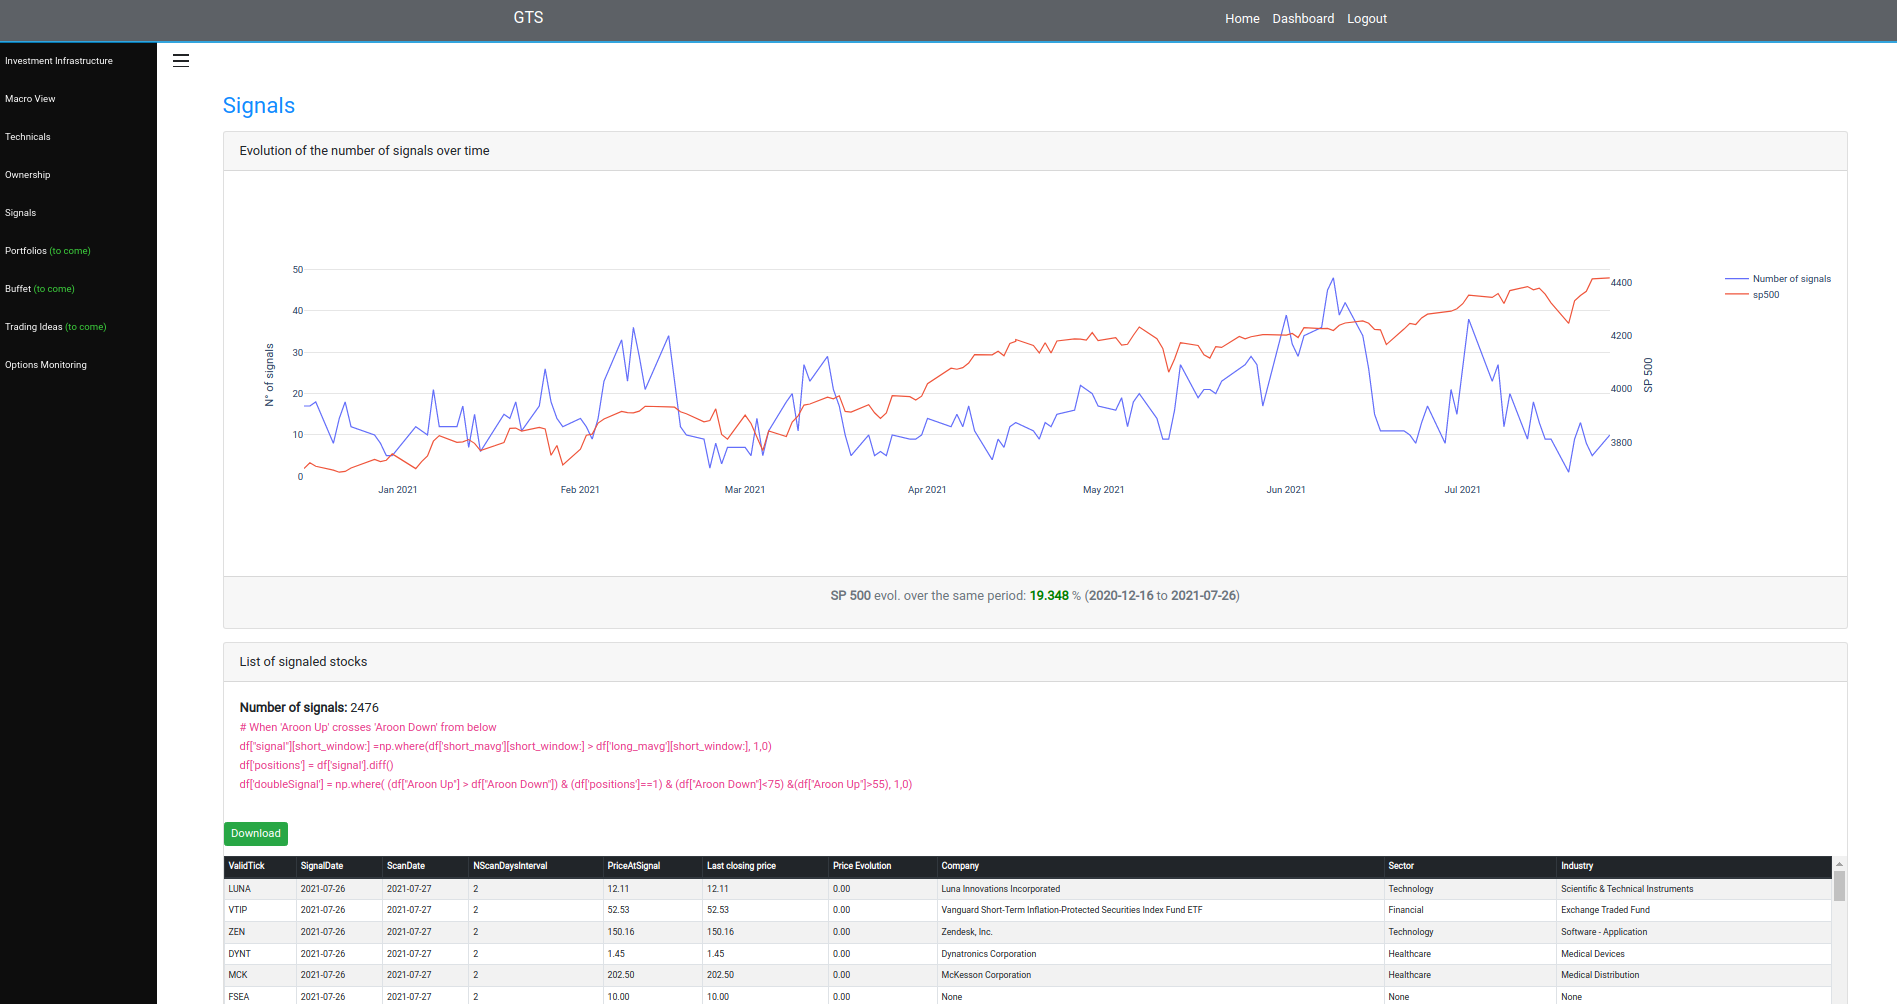
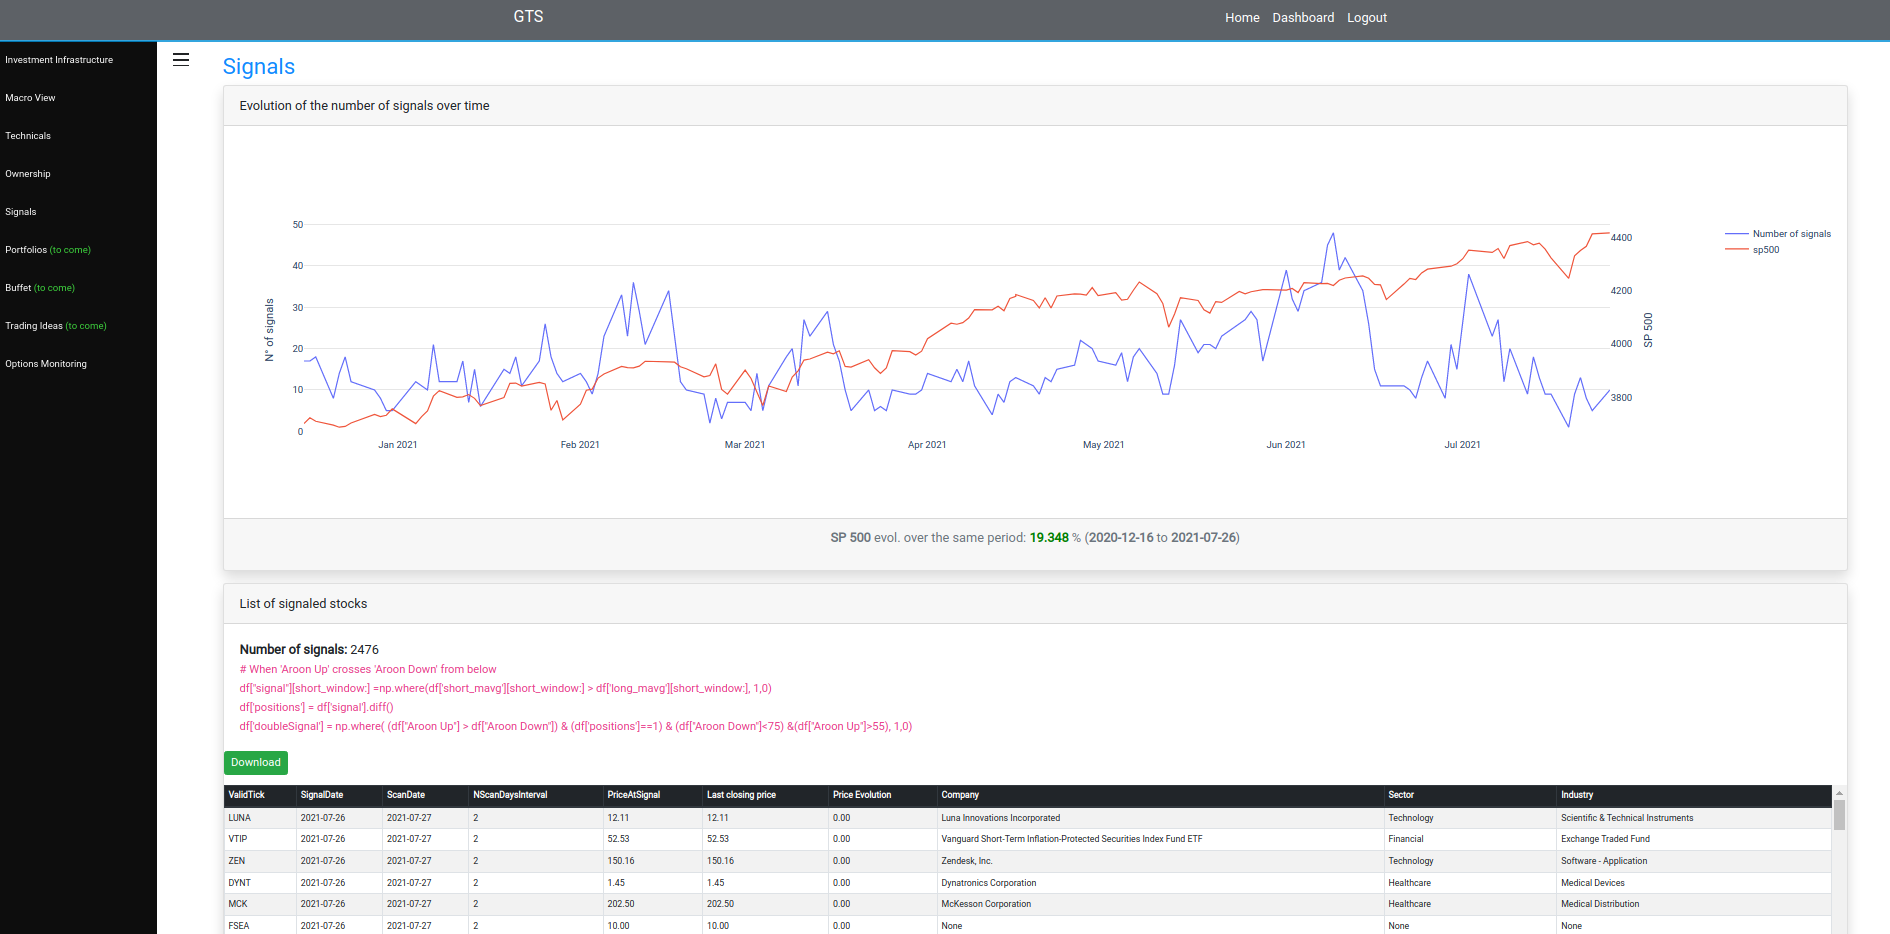
card padding

diff --git a/SV/templates/table.html b/SV/templates/table.html
@@ -13,12 +13,10 @@
 <body id="Table_page" style="margin: 20px">
 
 <h3>Signals</h3>
-<p>
-
-</p>
 
 
-<div class="card mb-3">
+<div class="card mb-3 shadow bg-white rounded">
+
     <div class="card-header">
       Evolution of the number of signals over time
     </div>
@@ -29,12 +27,11 @@
         Plotly.plot('line',graphs,{});
       </script> 
     </div>
-  </div>
+  </div>  
 
 
 
 
-</p>
 
 
   <div class="card-footer text-muted">
@@ -52,7 +49,7 @@
 
 </div> <!--CARD 1-->
 
-<div class="card mb-3">
+<div class="card mb-3 shadow bg-white rounded">
   <div class="card-header">
 List of signaled stocks  
 </div>
@@ -62,7 +59,6 @@ List of signaled stocks
   <div class="row">
 
       <div class="col-sm">
-          <p class="alignleft">
 
                   <b>Number of signals:</b> {{nSignals}}
                   </br>
@@ -77,7 +73,6 @@ List of signaled stocks
                       (df["Aroon Up"] > df["Aroon Down"]) & (df['positions']==1) & (df["Aroon Down"]<75) &(df["Aroon Up"]>55),
                       1,0)
                   </code>
-          </p>
       </div>
     </div><!--CARD BODY-->
 
@@ -117,12 +112,11 @@ List of signaled stocks
 
 </div> <!--CARD 2-->
 
-</br>
-</br>
 
 
-    <h3 id="signal_chart_section">Signals visualization</h3>
-    <hr>
+<h3 id="signal_chart_section">Signals visualization</h3>
+
+<div class="card mb-3 shadow bg-white rounded">
 
     You can enter one of the Symbols present in the table above to visualize the Signals.
     For now, only the stocks marked as signaled can be charted with the tool below.
@@ -140,6 +134,7 @@ List of signaled stocks
       Plotly.plot('SignalChart',graphs,{});
     </script>
     </div>
+</div>  <!--CARD 3-->
 
 </section>
 <p>

diff --git a/SV/static/css/style_table.css b/SV/static/css/style_table.css
@@ -18,7 +18,9 @@
 }
 
 
-
+.p-3{
+  padding: 0;
+}
 /* Smartphones (portrait and landscape) ----------- */
 @media only screen 
 and (min-device-width : 320px) 
@@ -46,8 +48,6 @@ font-size: 11px;
 .form{
 padding-right: 15px;
 }
-
-
 
 
 @font-face{
